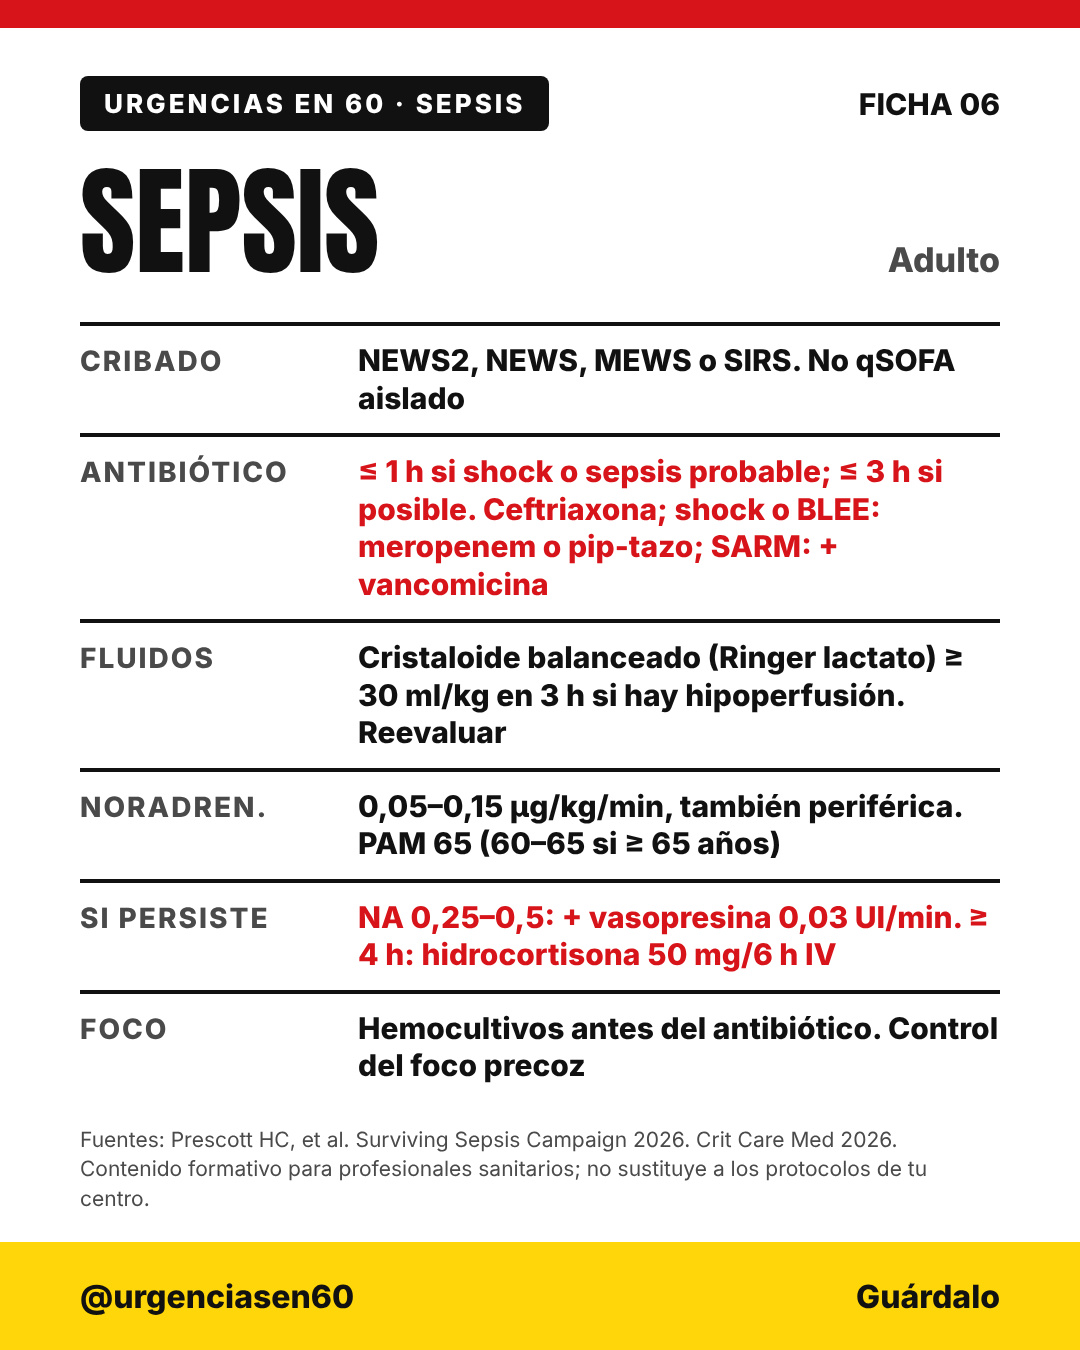
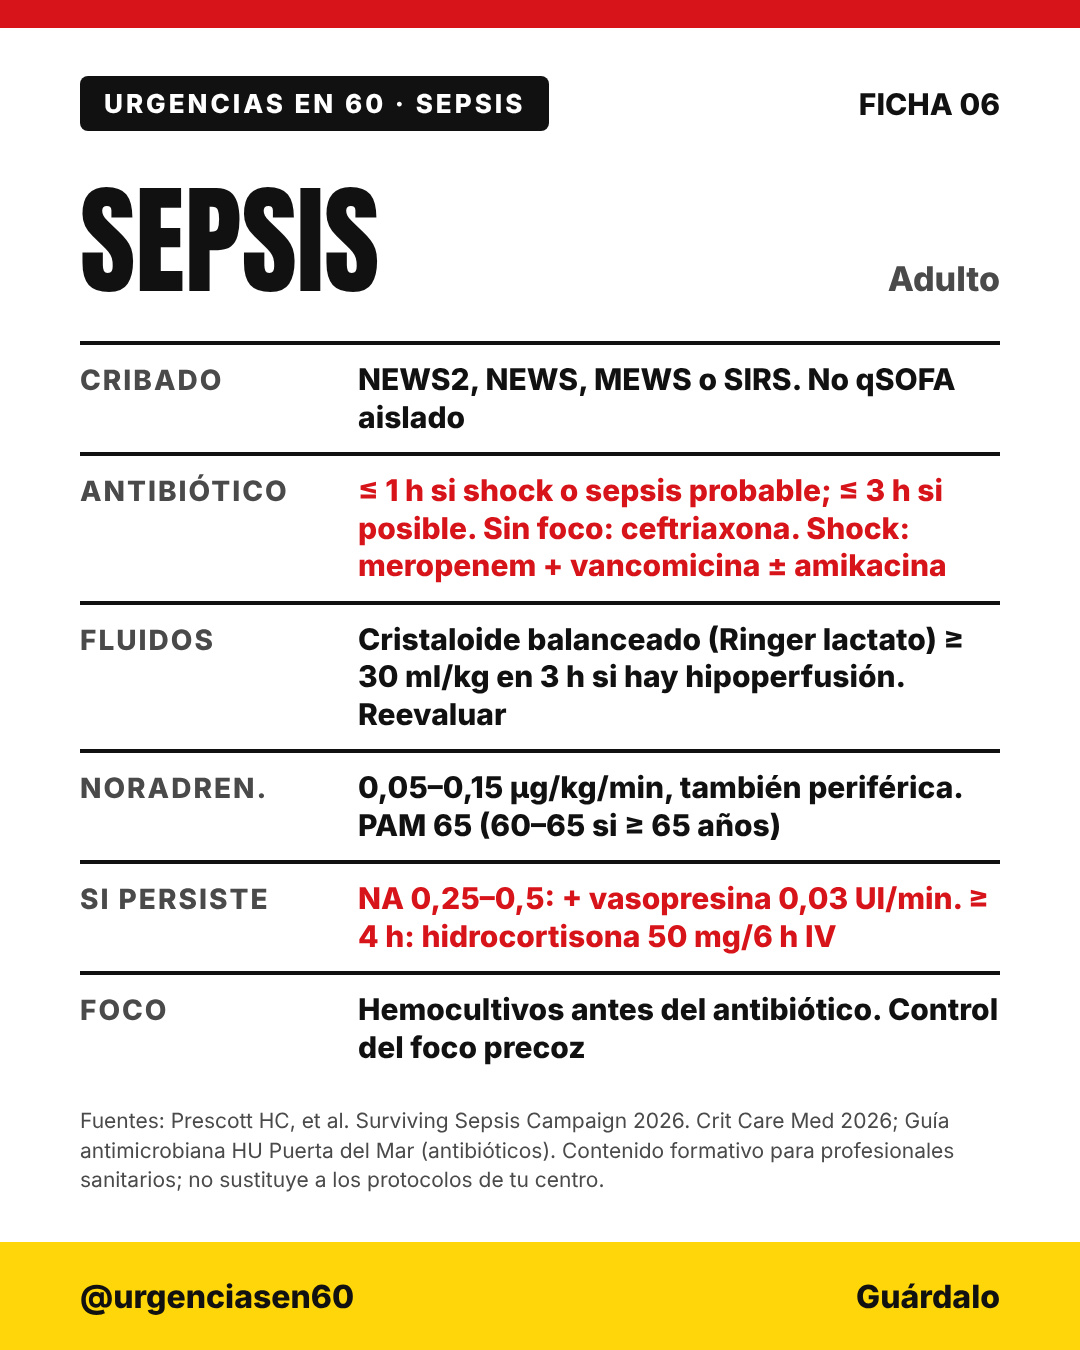
Ficha 06 sepsis: antibióticos según guía antimicrobiana HUPM
Claude-Session: https://claude.ai/code/session_019S5PG2ppqwuZwMv2DxeA6e

Changed region(s): [[0.0611, 0.2489, 0.9472, 0.9022], [0.0611, 0.1244, 0.3667, 0.2178], [0.825, 0.1867, 0.9472, 0.2178]]

diff --git a/tools/sepsis.py b/tools/sepsis.py
@@ -6,10 +6,10 @@ rows=lambda *x: '<div style="display:flex;flex-direction:column;gap:22px">'+"".j
 P=[
 page(1,N,T,big("SEPSIS",250,nowrap=True)+big(f'LA PRIMERA HORA <span style="color:{R}">MANDA</span>',132)+'<div style="font-size:40px;font-weight:600;line-height:1.3;max-width:820px">Qué hacer y en qué orden según la guía internacional de 2026. Con ficha final para guardar.</div>',cover=True),
 page(2,N,T,kicker("PASO 1 · SOSPECHA")+big("CRIBA CON UNA ESCALA",112)+rows(line("NEWS, NEWS2, MEWS o SIRS",True),line("El qSOFA, por sí solo, no sirve como cribado"),line("Busca hipoperfusión: hipotensión, lactato elevado, relleno capilar lento"))+note("La sepsis y el shock séptico son emergencias: el tratamiento empieza de inmediato.")),
-page(3,N,T,kicker("PASO 2 · ANTIBIÓTICO")+big("EN 1 HORA",200,R,True)+rows(row("Shock o sepsis probable","≤ 1 h"),row("Sepsis posible, sin shock","≤ 3 h"),row("Comunitaria","Ceftriaxona ± según foco"),row("Shock, nosocomial o BLEE","Meropenem o pip-tazo"),row("Riesgo de SARM","+ vancomicina o linezolid"))+note("Hemocultivos antes, sin retrasarlo. Anaerobios solo si el foco lo pide. Ajusta a la guía de tu hospital.")),
+page(3,N,T,kicker("PASO 2 · ANTIBIÓTICO")+big("EN 1 HORA",200,R,True)+rows(row("Shock o sepsis probable","≤ 1 h"),row("Sepsis posible, sin shock","≤ 3 h"),row("Sin foco","Ceftriaxona"),row("Sanitaria o multirresistentes","Ceftriaxona + amikacina o pip-tazo"),row("Shock séptico","Meropenem + vancomicina ± amikacina"))+note("Hemocultivos antes, sin retrasarlo. Con foco conocido, la pauta del foco. Ajusta a la guía de tu hospital.")),
 page(4,N,T,kicker("PASO 3 · FLUIDOS")+big("30 ML/KG",230,R,True)+'<div style="font-size:48px;font-weight:800;line-height:1.2">De cristaloide, en las 3 primeras horas, si hay hipoperfusión o shock</div>'+rows(row("Tipo","Balanceado (Ringer lactato) antes que salino 0,9 %"),row("Si IMC &gt; 30","Calcula con peso ajustado o ideal"))+note("Es un mínimo orientativo: reevalúa e individualiza con medidas dinámicas.")),
 page(5,N,T,kicker("PASO 4 · VASOPRESOR")+big("NORADRENALINA",140,R,True)+rows(row("Inicio","0,05–0,15 µg/kg/min"),row("Objetivo","PAM 65 (60–65 si ≥ 65 años)"),line("Por vía periférica si hace falta: no esperes a la central"),row("NA a 0,25–0,5","+ vasopresina 0,03 UI/min"),row("NA ≥ 4 h","Hidrocortisona 50 mg/6 h IV"))),
 page(6,N,T,kicker("Y NO OLVIDES")+big("CONTROLA EL FOCO",128)+rows(line("Drenar, desobstruir o retirar el dispositivo infectado cuanto antes",True),line("Desescala el antibiótico cuando llegue el antibiograma"),line("Pasada la reanimación, retira el exceso de líquido"))+note("El antibiótico sin control del foco no resuelve la sepsis.")),
-page(7,N,T,ficha_body("SEPSIS","Adulto",[("CRIBADO","NEWS2, NEWS, MEWS o SIRS. No qSOFA aislado"),("ANTIBIÓTICO","≤ 1 h si shock o sepsis probable; ≤ 3 h si posible. Ceftriaxona; shock o BLEE: meropenem o pip-tazo; SARM: + vancomicina",True),("FLUIDOS","Cristaloide balanceado (Ringer lactato) ≥ 30 ml/kg en 3 h si hay hipoperfusión. Reevaluar"),("NORADREN.","0,05–0,15 µg/kg/min, también periférica. PAM 65 (60–65 si ≥ 65 años)"),("SI PERSISTE","NA 0,25–0,5: + vasopresina 0,03 UI/min. ≥ 4 h: hidrocortisona 50 mg/6 h IV",True),("FOCO","Hemocultivos antes del antibiótico. Control del foco precoz")],"Prescott HC, et al. Surviving Sepsis Campaign 2026. Crit Care Med 2026",size=120,fs=30),ficha="06"),
+page(7,N,T,ficha_body("SEPSIS","Adulto",[("CRIBADO","NEWS2, NEWS, MEWS o SIRS. No qSOFA aislado"),("ANTIBIÓTICO","≤ 1 h si shock o sepsis probable; ≤ 3 h si posible. Sin foco: ceftriaxona. Shock: meropenem + vancomicina ± amikacina",True),("FLUIDOS","Cristaloide balanceado (Ringer lactato) ≥ 30 ml/kg en 3 h si hay hipoperfusión. Reevaluar"),("NORADREN.","0,05–0,15 µg/kg/min, también periférica. PAM 65 (60–65 si ≥ 65 años)"),("SI PERSISTE","NA 0,25–0,5: + vasopresina 0,03 UI/min. ≥ 4 h: hidrocortisona 50 mg/6 h IV",True),("FOCO","Hemocultivos antes del antibiótico. Control del foco precoz")],"Prescott HC, et al. Surviving Sepsis Campaign 2026. Crit Care Med 2026; Guía antimicrobiana HU Puerta del Mar (antibióticos)",size=120,fs=30),ficha="06"),
 ]
 render(P,sys.argv[1] if len(sys.argv)>1 else "out","sepsis")

diff --git a/borradores/REVISION.md b/borradores/REVISION.md
@@ -127,3 +127,4 @@ Dudas y discrepancias:
 - Parámetros iniciales de VMNI (IPAP/EPAP): ninguna fuente leída los da; no se incluyen.
 - Criterios de ingreso: tabla 9 de GesEPOC (se omiten PaCO2 > 50 sin hipercapnia previa, comorbilidad y soporte domiciliario por espacio).
 - 21/11 (Eduardo): añadir dosis de hidrocortisona y noradrenalina y ejemplos de antibiótico (sin dosis). Dosis tomadas del protocolo basado en SSC 2021 (Michigan Medicine, NCBI Bookshelf NBK598311): NA inicio 0,05–0,15 µg/kg/min; vasopresina 0,03 UI/min cuando NA 0,25–0,5; hidrocortisona 50 mg/6 h si NA ≥ 4 h. Antibióticos: ejemplos genéricos [VERIFICAR con la guía antimicrobiana del HUPM (guia.implemento.es)].
+- 21/11: antibióticos cotejados con la guía antimicrobiana HUPM/H. San Carlos (guia.implemento.es, «Sepsis - Shock séptico», sin foco): ceftriaxona; asociada a cuidados o riesgo de multirresistentes: ceftriaxona + amikacina o pip-tazo; shock: meropenem + vancomicina (o daptomicina o linezolid) ± amikacina. Discrepancias con SSC 2026 que se dejan como en la SSC: fluidos 30 ml/kg en 3 h (la guía HUPM dice en los primeros 30 min) y cribado (HUPM usa qSOFA + criterios propios). La guía HUPM da noradrenalina 0,01–3 µg/kg/min «aumentando 0,5 µg/kg/min cada 3-5 min» (probable errata, 0,05) y prepara 10 mg en 50 ml de G5 % = 200 µg/ml.
